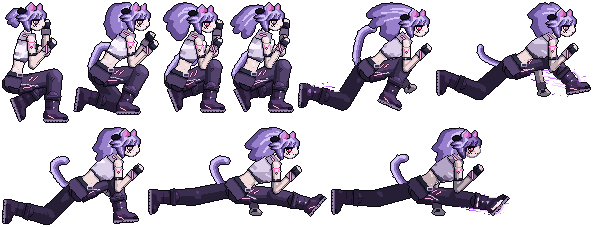
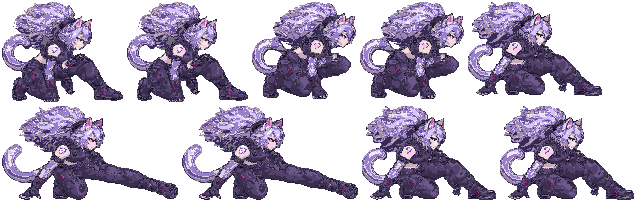
feat(feline) : le balayage (crouchHeavy) vient de sa planche dessinée
9 frames depuis Pack_02 (04_Balayage), la tête calée d'une frame à l'autre ; la
jambe tendue s'arrête au bout de la hitbox (51 px). Table des zones éclairées
remesurée.

Claude-Session: https://claude.ai/code/session_01JBLzLMjZS6VPwWpKajS2YB

diff --git a/src/art/feline/cells.ts b/src/art/feline/cells.ts
@@ -279,35 +279,19 @@ export const FELINE_CELLS: Readonly<Record<string, Cell>> = {
     ],
   },
   crouchHeavy: {
-    width: 184,
-    height: 127,
-    anchor: { x: 77, y: 122 },
+    width: 181,
+    height: 104,
+    anchor: { x: 76, y: 101 },
     frames: [
-      { x: 40, y: 2, width: 67, height: 121 },
-      { x: 2, y: 14, width: 134, height: 109 },
-      { x: 3, y: 27, width: 155, height: 98 },
-      { x: 3, y: 33, width: 179, height: 89 },
-      { x: 3, y: 33, width: 179, height: 90 },
-      { x: 5, y: 23, width: 142, height: 98 },
-      { x: 39, y: 10, width: 86, height: 113 },
-      { x: 44, y: 12, width: 63, height: 111 },
-      { x: 43, y: 12, width: 64, height: 111 },
-    ],
-  },
-  'fx/crouchHeavy': {
-    width: 212,
-    height: 37,
-    anchor: { x: 90, y: 30 },
-    frames: [
-      { x: 0, y: 0, width: 0, height: 0 },
-      { x: 61, y: 26, width: 10, height: 5 },
-      { x: 12, y: 25, width: 118, height: 6 },
-      { x: 7, y: 2, width: 202, height: 33 },
-      { x: 2, y: 21, width: 204, height: 10 },
-      { x: 102, y: 18, width: 108, height: 13 },
-      { x: 20, y: 17, width: 188, height: 14 },
-      { x: 0, y: 0, width: 0, height: 0 },
-      { x: 0, y: 0, width: 0, height: 0 },
+      { x: 21, y: 2, width: 121, height: 100 },
+      { x: 2, y: 5, width: 104, height: 97 },
+      { x: 24, y: 8, width: 134, height: 94 },
+      { x: 3, y: 8, width: 176, height: 94 },
+      { x: 3, y: 8, width: 176, height: 94 },
+      { x: 24, y: 8, width: 134, height: 94 },
+      { x: 24, y: 8, width: 134, height: 94 },
+      { x: 2, y: 5, width: 104, height: 97 },
+      { x: 21, y: 2, width: 121, height: 100 },
     ],
   },
   jumpLight: {

diff --git a/src/render/live-lights.ts b/src/render/live-lights.ts
@@ -248,7 +248,7 @@ export const FIGHTER_LIGHT_AREAS: Readonly<Record<string, number>> = {
   'watt/alt': 960,
   'koda/main': 990,
   'koda/alt': 760,
-  'feline/main': 1100,
+  'feline/main': 1250,
   'feline/alt': 1230,
 };
 
